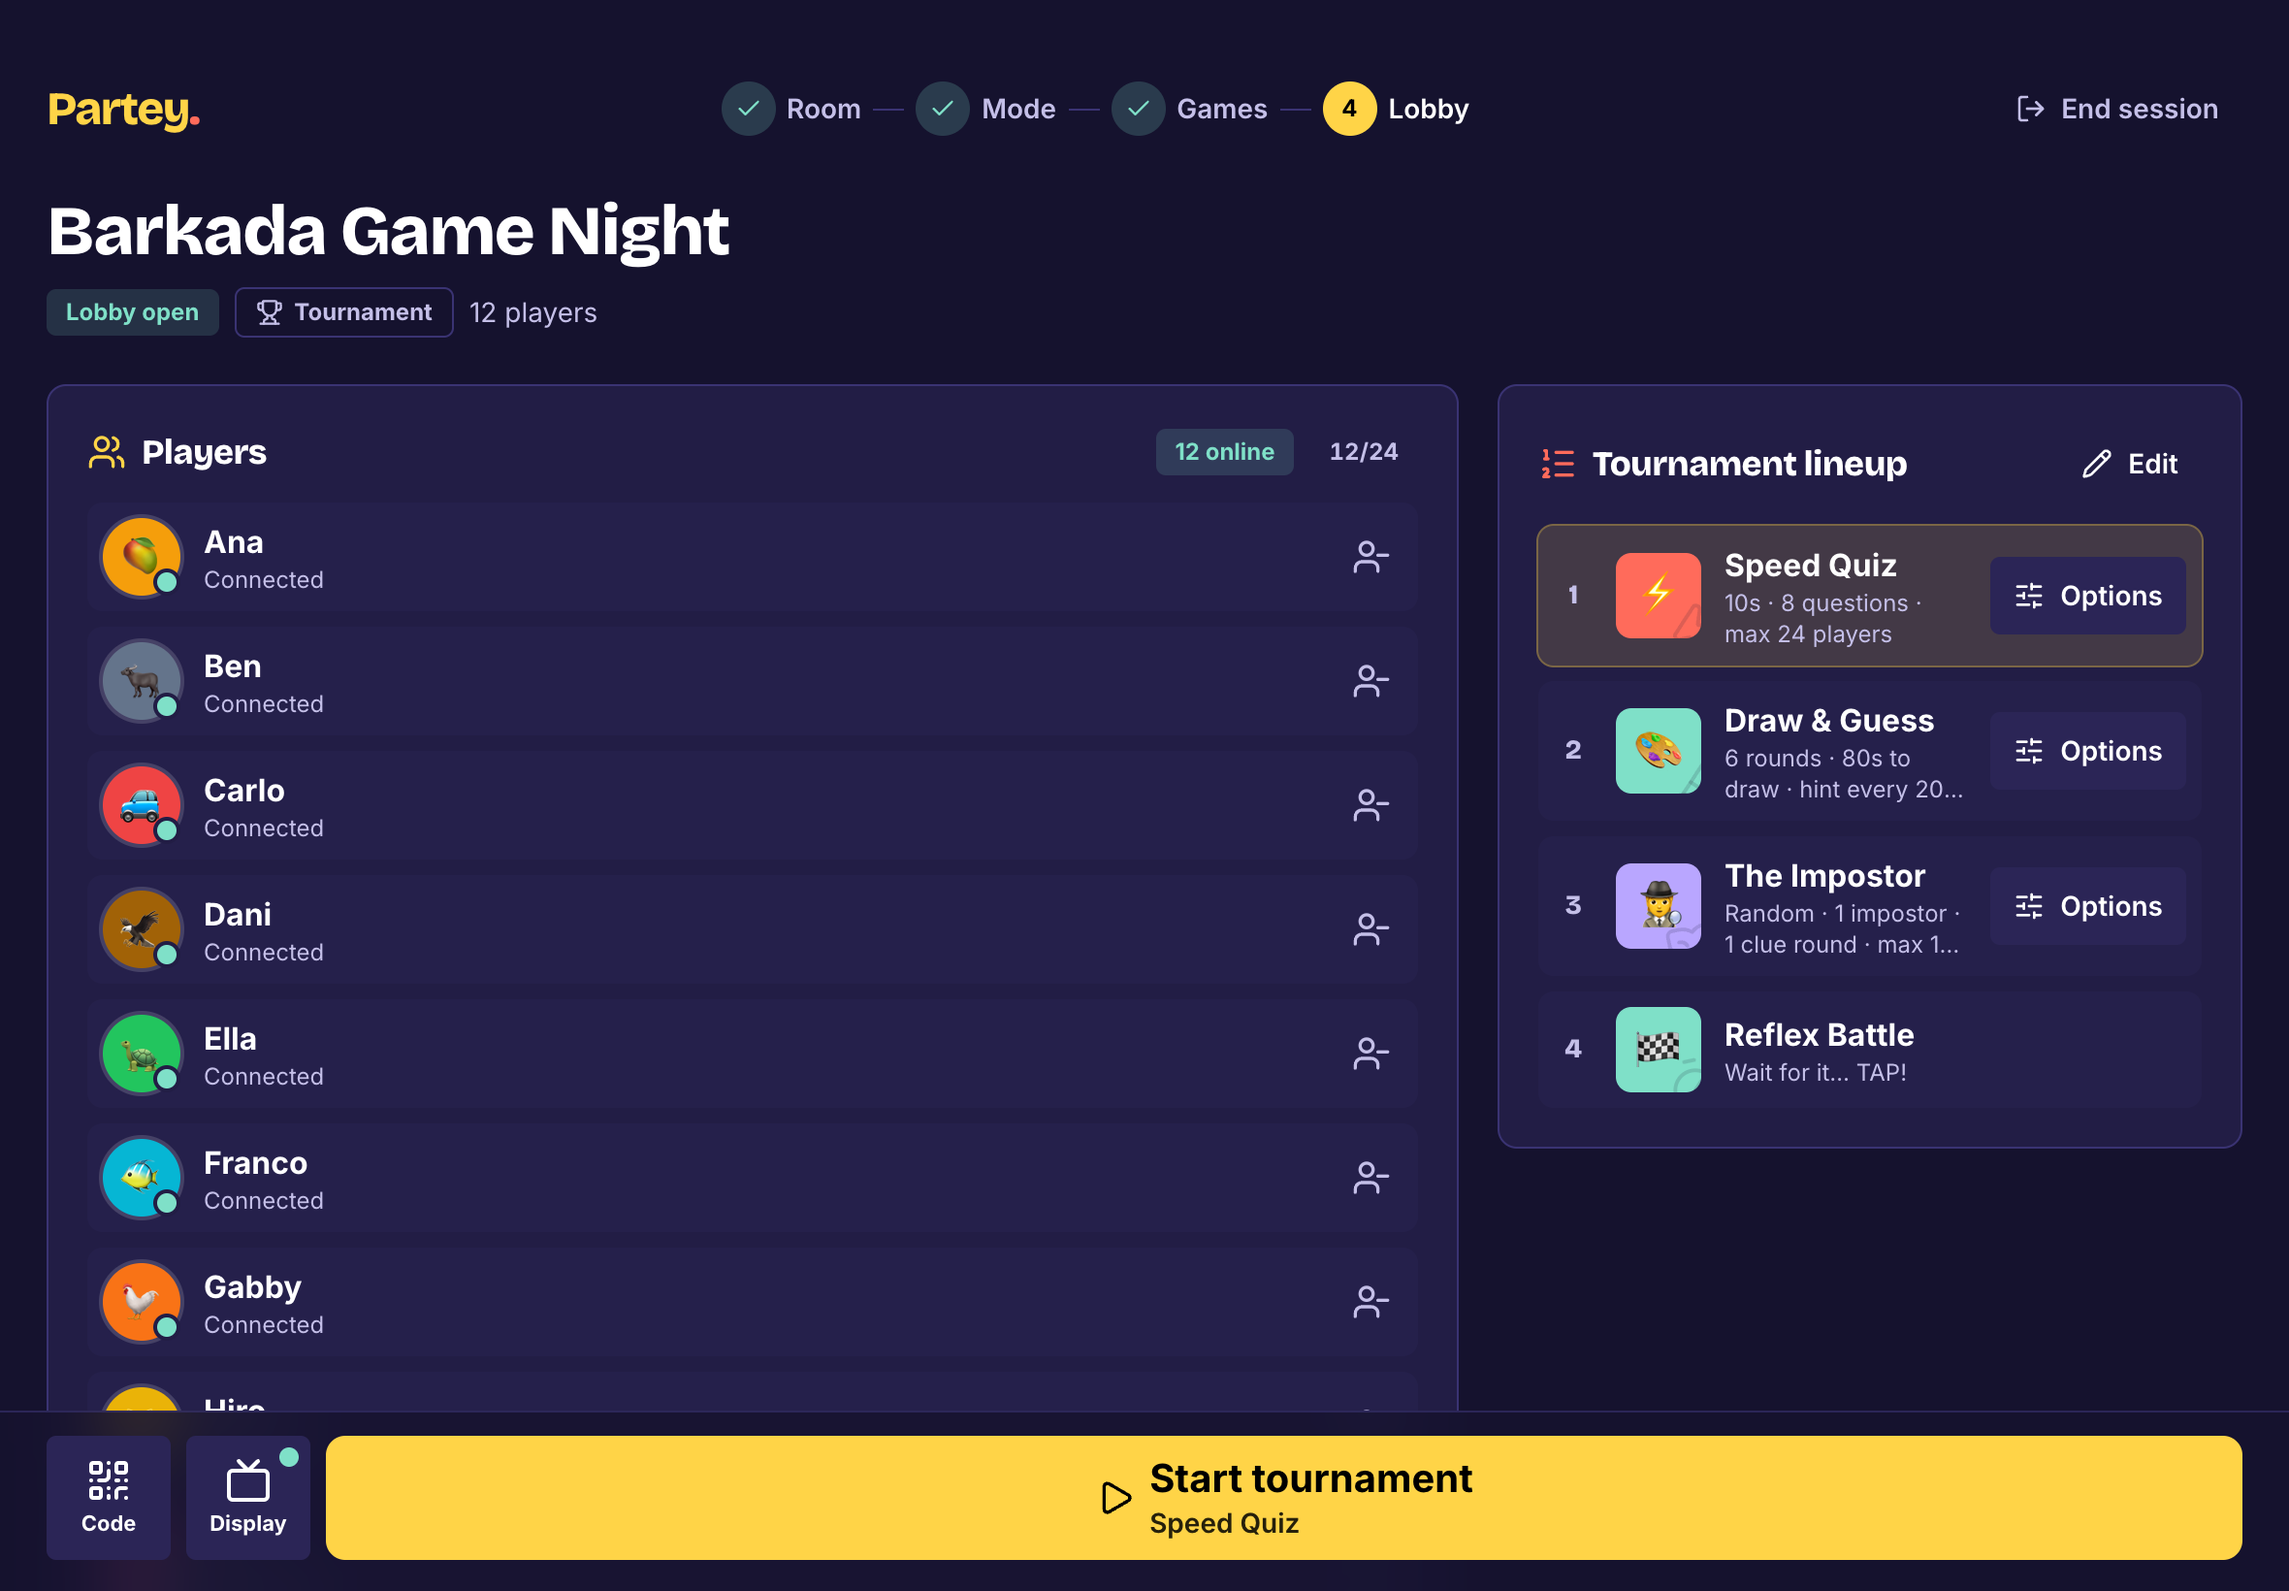
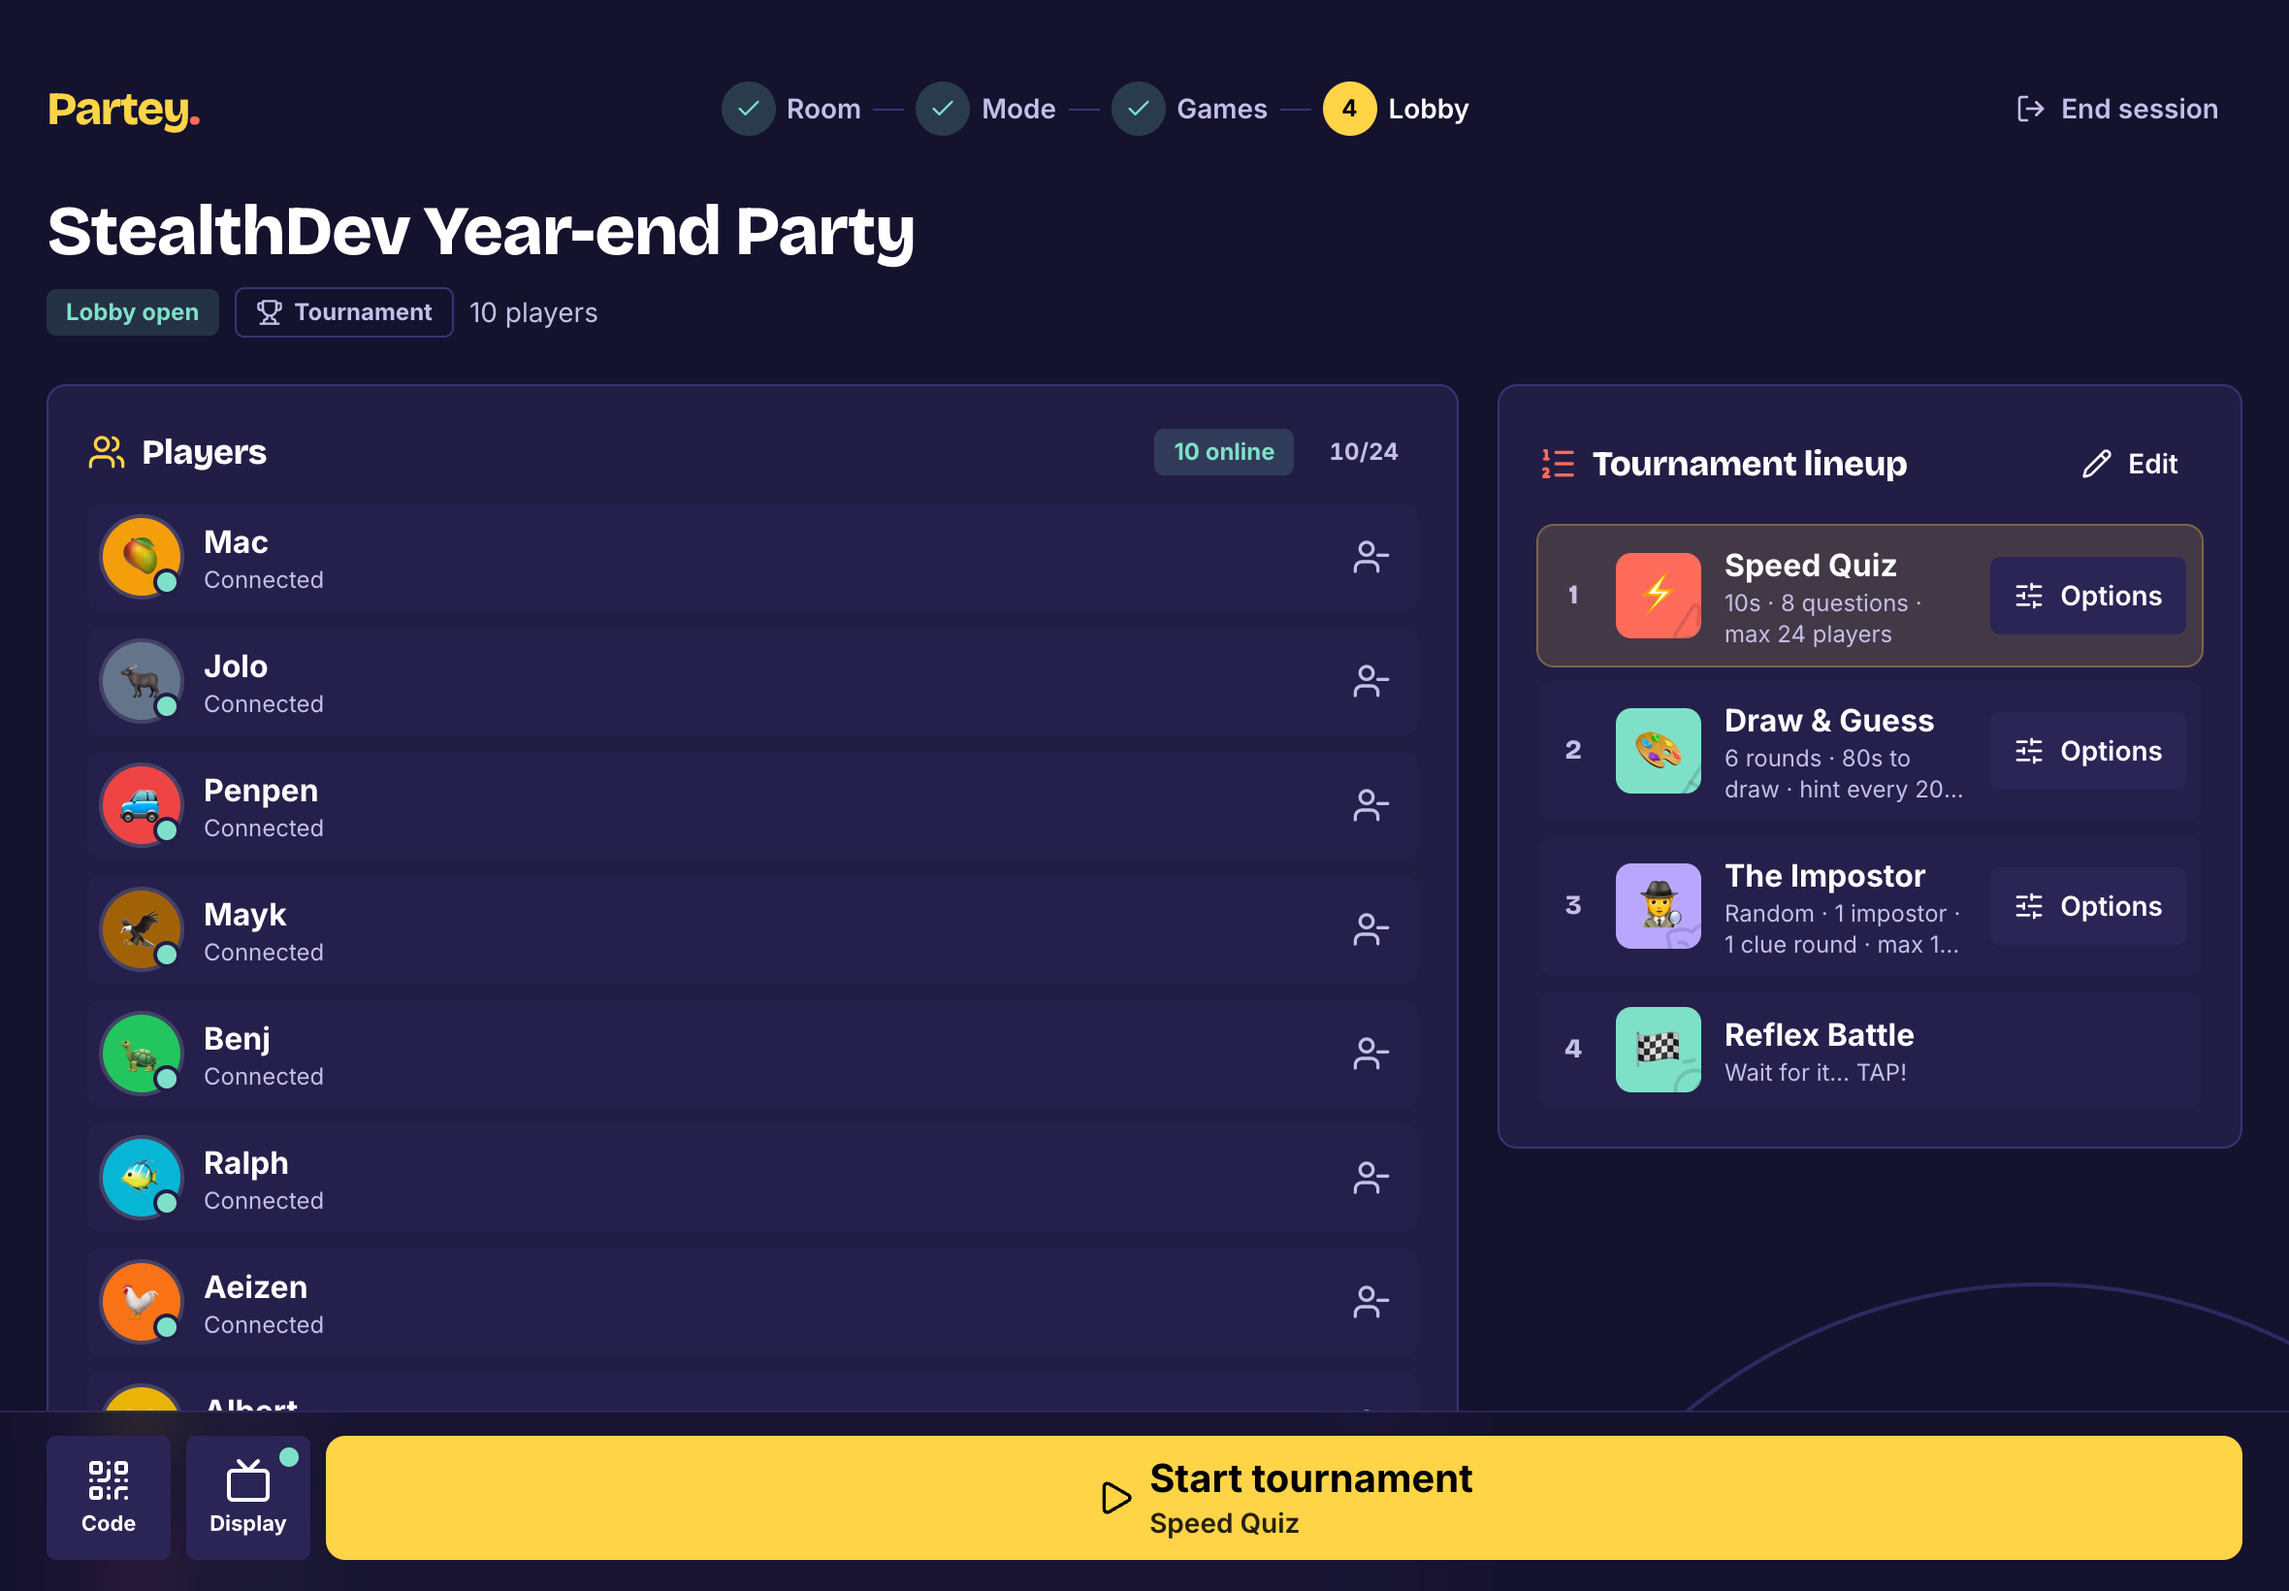
feat: generate new screenshots, allow hypens on names

diff --git a/functions/src/names.test.ts b/functions/src/names.test.ts
@@ -1,5 +1,5 @@
 import { describe, expect, it } from "vitest";
-import { LIMITS, NAME_PATTERN, cleanName } from "../../shared/constants";
+import { LIMITS, NAME_PATTERN, cleanName, finishName } from "../../shared/constants";
 import * as v from "./lib/validate";
 
 describe("names (room names, nicknames)", () => {
@@ -8,9 +8,9 @@ describe("names (room names, nicknames)", () => {
     expect(LIMITS.nicknameMax).toBe(12);
   });
 
-  it("allow letters (any language), numbers and single spaces between words", () => {
-    for (const ok of ["Ana", "Niño", "Friday Game Night", "Room 42", "José2"]) expect(NAME_PATTERN.test(ok)).toBe(true);
-    for (const bad of ["Ana!", "x_y", "a  b", " Ana", "Ana ", "🎉 Party", "a-b", ""]) expect(NAME_PATTERN.test(bad)).toBe(false);
+  it("allow letters (any language), numbers and a single space or hyphen between words", () => {
+    for (const ok of ["Ana", "Niño", "Friday Game Night", "Room 42", "José2", "StealthDev Year-end Party", "Jean-Luc"]) expect(NAME_PATTERN.test(ok)).toBe(true);
+    for (const bad of ["Ana!", "x_y", "a  b", " Ana", "Ana ", "🎉 Party", "a--b", "-Ana", "Ana-", "a - b", ""]) expect(NAME_PATTERN.test(bad)).toBe(false);
   });
 
   it("are cleaned while typing: symbols and emoji dropped, spaces collapsed, length cut", () => {
@@ -18,11 +18,17 @@ describe("names (room names, nicknames)", () => {
     expect(cleanName("  Kuya   Ben 🎉", 12)).toBe("Kuya Ben ");
     expect(cleanName("Abcdefghijklmnop", 12)).toBe("Abcdefghijkl");
     expect(cleanName("Niño_123", 12)).toBe("Niño123");
+    expect(cleanName("Year -- end", 30)).toBe("Year-end");
+    expect(cleanName("-Ana", 12)).toBe("Ana");
+    expect(finishName("Kuya Ben ")).toBe("Kuya Ben");
+    expect(finishName("Year-")).toBe("Year");
+    expect(NAME_PATTERN.test(finishName(cleanName("StealthDev Year-end Party", 30)))).toBe(true);
   });
 
   it("are enforced by the server", () => {
     expect(v.name({ n: "  Friday   Game Night " }, "n", 2, 30, "Room name")).toBe("Friday Game Night");
     expect(() => v.name({ n: "Party 🎉" }, "n", 2, 30, "Room name")).toThrow(/letters and numbers/);
+    expect(v.name({ n: "StealthDev Year-end Party" }, "n", 2, 30, "Room name")).toBe("StealthDev Year-end Party");
     expect(() => v.name({ n: "a".repeat(13) }, "n", 1, 12, "Nickname")).toThrow(/at most 12/);
   });
 });

diff --git a/shared/constants.ts b/shared/constants.ts
@@ -54,17 +54,28 @@ export const DEFAULT_PLACEMENT_POINTS = [100, 60, 30] as const;
 export const DEFAULT_OTHER_PLACEMENT_POINTS = 10;
 
 /**
- * Room names and nicknames: letters (any language, e.g. "Niño") and numbers, with single spaces
- * between words. No symbols or emoji. Lengths come from LIMITS.
+ * Room names and nicknames: letters (any language, e.g. "Niño") and numbers, with a single space or
+ * hyphen between words ("Year-end Party"). No other symbols or emoji. Lengths come from LIMITS.
  */
-export const NAME_PATTERN = /^[\p{L}\p{N}]+(?: [\p{L}\p{N}]+)*$/u;
+export const NAME_PATTERN = /^[\p{L}\p{N}]+(?:[ -][\p{L}\p{N}]+)*$/u;
 
 /**
- * Clean a name as it's typed: drops symbols and emoji, collapses spaces, no leading space, and
- * cuts it to `max` characters (counted as characters, not UTF-16 units). A trailing space is kept
- * so the next word can be typed; trim before submitting.
+ * Clean a name as it's typed: drops symbols and emoji, keeps one space or hyphen between words
+ * (a run like " - " becomes "-"), nothing leading, and cuts it to `max` characters (counted as
+ * characters, not UTF-16 units). A trailing space or hyphen is kept so the next word can be
+ * typed; pass the result through `finishName` before submitting.
  */
 export function cleanName(raw: string, max: number): string {
-  const cleaned = raw.normalize("NFC").replace(/[^\p{L}\p{N} ]/gu, "").replace(/ {2,}/g, " ").replace(/^ /, "");
+  const cleaned = raw
+    .normalize("NFC")
+    .replace(/[^\p{L}\p{N} -]/gu, "")
+    .replace(/[ -]*-[ -]*/g, "-")
+    .replace(/ {2,}/g, " ")
+    .replace(/^[ -]+/, "");
   return [...cleaned].slice(0, max).join("");
+}
+
+/** A typed name ready to submit: no trailing space or hyphen. */
+export function finishName(name: string): string {
+  return name.replace(/[ -]+$/, "");
 }

diff --git a/src/features/player/components/JoinForm.tsx b/src/features/player/components/JoinForm.tsx
@@ -1,7 +1,7 @@
 import { useState } from "react";
 import { Loader2, PartyPopper } from "lucide-react";
 import { Link } from "react-router";
-import { LIMITS, cleanName } from "@shared/constants";
+import { LIMITS, cleanName, finishName } from "@shared/constants";
 import { AvatarBubble } from "@/components/shared/AvatarBubble";
 import { BottomBar } from "@/components/shared/BottomBar";
 import { Button } from "@/components/ui/button";
@@ -27,15 +27,16 @@ export function JoinForm({
   // A nickname saved before the current rules may be too long or have symbols: clean it up.
   const [nickname, setNickname] = useState(() => cleanName(profile.nickname, LIMITS.nicknameMax));
   const [submitting, setSubmitting] = useState(false);
-  const valid = nickname.trim().length >= LIMITS.nicknameMin;
+  const finished = finishName(nickname);
+  const valid = finished.length >= LIMITS.nicknameMin;
 
   async function submit(e: React.FormEvent) {
     e.preventDefault();
     if (!valid || submitting) return;
     setSubmitting(true);
-    profile.setNickname(nickname.trim());
+    profile.setNickname(finished);
     try {
-      await onJoin(nickname.trim(), profile.avatar);
+      await onJoin(finished, profile.avatar);
     } finally {
       setSubmitting(false);
     }
@@ -74,7 +75,7 @@ export function JoinForm({
         />
         {!error && (
           <p id="nickname-hint" className="text-sm text-muted-foreground">
-            Letters and numbers only, up to {LIMITS.nicknameMax} characters.
+            Letters and numbers (a space or hyphen between words), up to {LIMITS.nicknameMax} characters.
           </p>
         )}
         {error && (

diff --git a/src/features/host/screens/CreateRoomScreen.tsx b/src/features/host/screens/CreateRoomScreen.tsx
@@ -2,7 +2,7 @@ import { useEffect, useState } from "react";
 import { ArrowRight, History, Loader2, PartyPopper } from "lucide-react";
 import { Link, useNavigate } from "react-router";
 import { toast } from "sonner";
-import { LIMITS, cleanName } from "@shared/constants";
+import { LIMITS, cleanName, finishName } from "@shared/constants";
 import { Backdrop } from "@/components/shared/Backdrop";
 import { BottomBar } from "@/components/shared/BottomBar";
 import { Button } from "@/components/ui/button";
@@ -30,7 +30,7 @@ export function CreateRoomScreen() {
       cancelled = true;
     };
   }, [user]);
-  const trimmed = roomName.trim();
+  const trimmed = finishName(roomName);
   const valid = trimmed.length >= LIMITS.roomNameMin;
 
   async function handleSubmit(e: React.FormEvent) {
@@ -67,7 +67,7 @@ export function CreateRoomScreen() {
               aria-describedby="room-name-hint"
             />
             <p id="room-name-hint" className="text-sm text-muted-foreground">
-              Letters and numbers only, up to {LIMITS.roomNameMax} characters.
+              Letters and numbers (a space or hyphen between words), up to {LIMITS.roomNameMax} characters.
             </p>
             <div className="flex flex-wrap gap-2">
               {SUGGESTIONS.map((s) => (

diff --git a/functions/src/lib/validate.ts b/functions/src/lib/validate.ts
@@ -42,7 +42,7 @@ export function text(data: Data, key: string, min: number, max: number, label: s
 /** A room name or nickname: `text` rules plus letters and numbers only (single spaces between words). */
 export function name(data: Data, key: string, min: number, max: number, label: string): string {
   const value = text(data, key, min, max, label).normalize("NFC");
-  if (!NAME_PATTERN.test(value)) fail("invalid-argument", `${label} can only use letters and numbers.`);
+  if (!NAME_PATTERN.test(value)) fail("invalid-argument", `${label} can only use letters and numbers (with a space or hyphen between words).`);
   return value;
 }
 

diff --git a/docs/ARCHITECTURE.md b/docs/ARCHITECTURE.md
@@ -28,7 +28,7 @@
 
 ## Callable functions (`functions/src`)
 
-**Input limits.** Every callable starts with `requireUid`, which also refuses request bodies over 8 KB (`MAX_REQUEST_BYTES`). Every text field has a fixed maximum, checked on the server and mirrored by `maxLength` on the matching input: nickname 12, room name 30 (both letters, numbers and single spaces only), display name 40, Impostor clue 24 and custom word 30, Draw & Guess guess 40, host game search 40 (client only). Raw strings far over their limit are refused before they're cleaned or matched (`capRaw`), and arrays in game options are capped too. Draw & Guess strokes are limited by the RTDB rules (only the current artist, ≤ 2,400 characters per chunk).
+**Input limits.** Every callable starts with `requireUid`, which also refuses request bodies over 8 KB (`MAX_REQUEST_BYTES`). Every text field has a fixed maximum, checked on the server and mirrored by `maxLength` on the matching input: nickname 12, room name 30 (both letters and numbers, with a single space or hyphen between words), display name 40, Impostor clue 24 and custom word 30, Draw & Guess guess 40, host game search 40 (client only). Raw strings far over their limit are refused before they're cleaned or matched (`capRaw`), and arrays in game options are capped too. Draw & Guess strokes are limited by the RTDB rules (only the current artist, ≤ 2,400 characters per chunk).
 
 | Function | Caller | Notes |
 |---|---|---|

diff --git a/README.md b/README.md
@@ -16,8 +16,8 @@ A real-time multiplayer party game platform. One device **hosts**, a TV or table
 ![Landing page: choose Host a Game or Game Display](docs/screenshots/landing.png)
 <p align="center"><sub><b>Landing</b>: host a game or connect a screen</sub></p>
 
-![Host lobby on a tablet: 12 players connected, a four-game tournament lineup and the Start tournament button](docs/screenshots/host-lobby.png)
-<p align="center"><sub><b>Host</b>: the lobby on a tablet, with 12 players in and a tournament lineup ready</sub></p>
+![Host lobby on a tablet: 10 players connected, a four-game tournament lineup and the Start tournament button](docs/screenshots/host-lobby.png)
+<p align="center"><sub><b>Host</b>: the lobby on a tablet, with 10 players in and a tournament lineup ready</sub></p>
 
 <p align="center">
   <img src="docs/screenshots/player-speed-quiz.png" alt="A player's phone during Speed Quiz: the question, a timer and four coloured answer tiles" width="280"><br>
